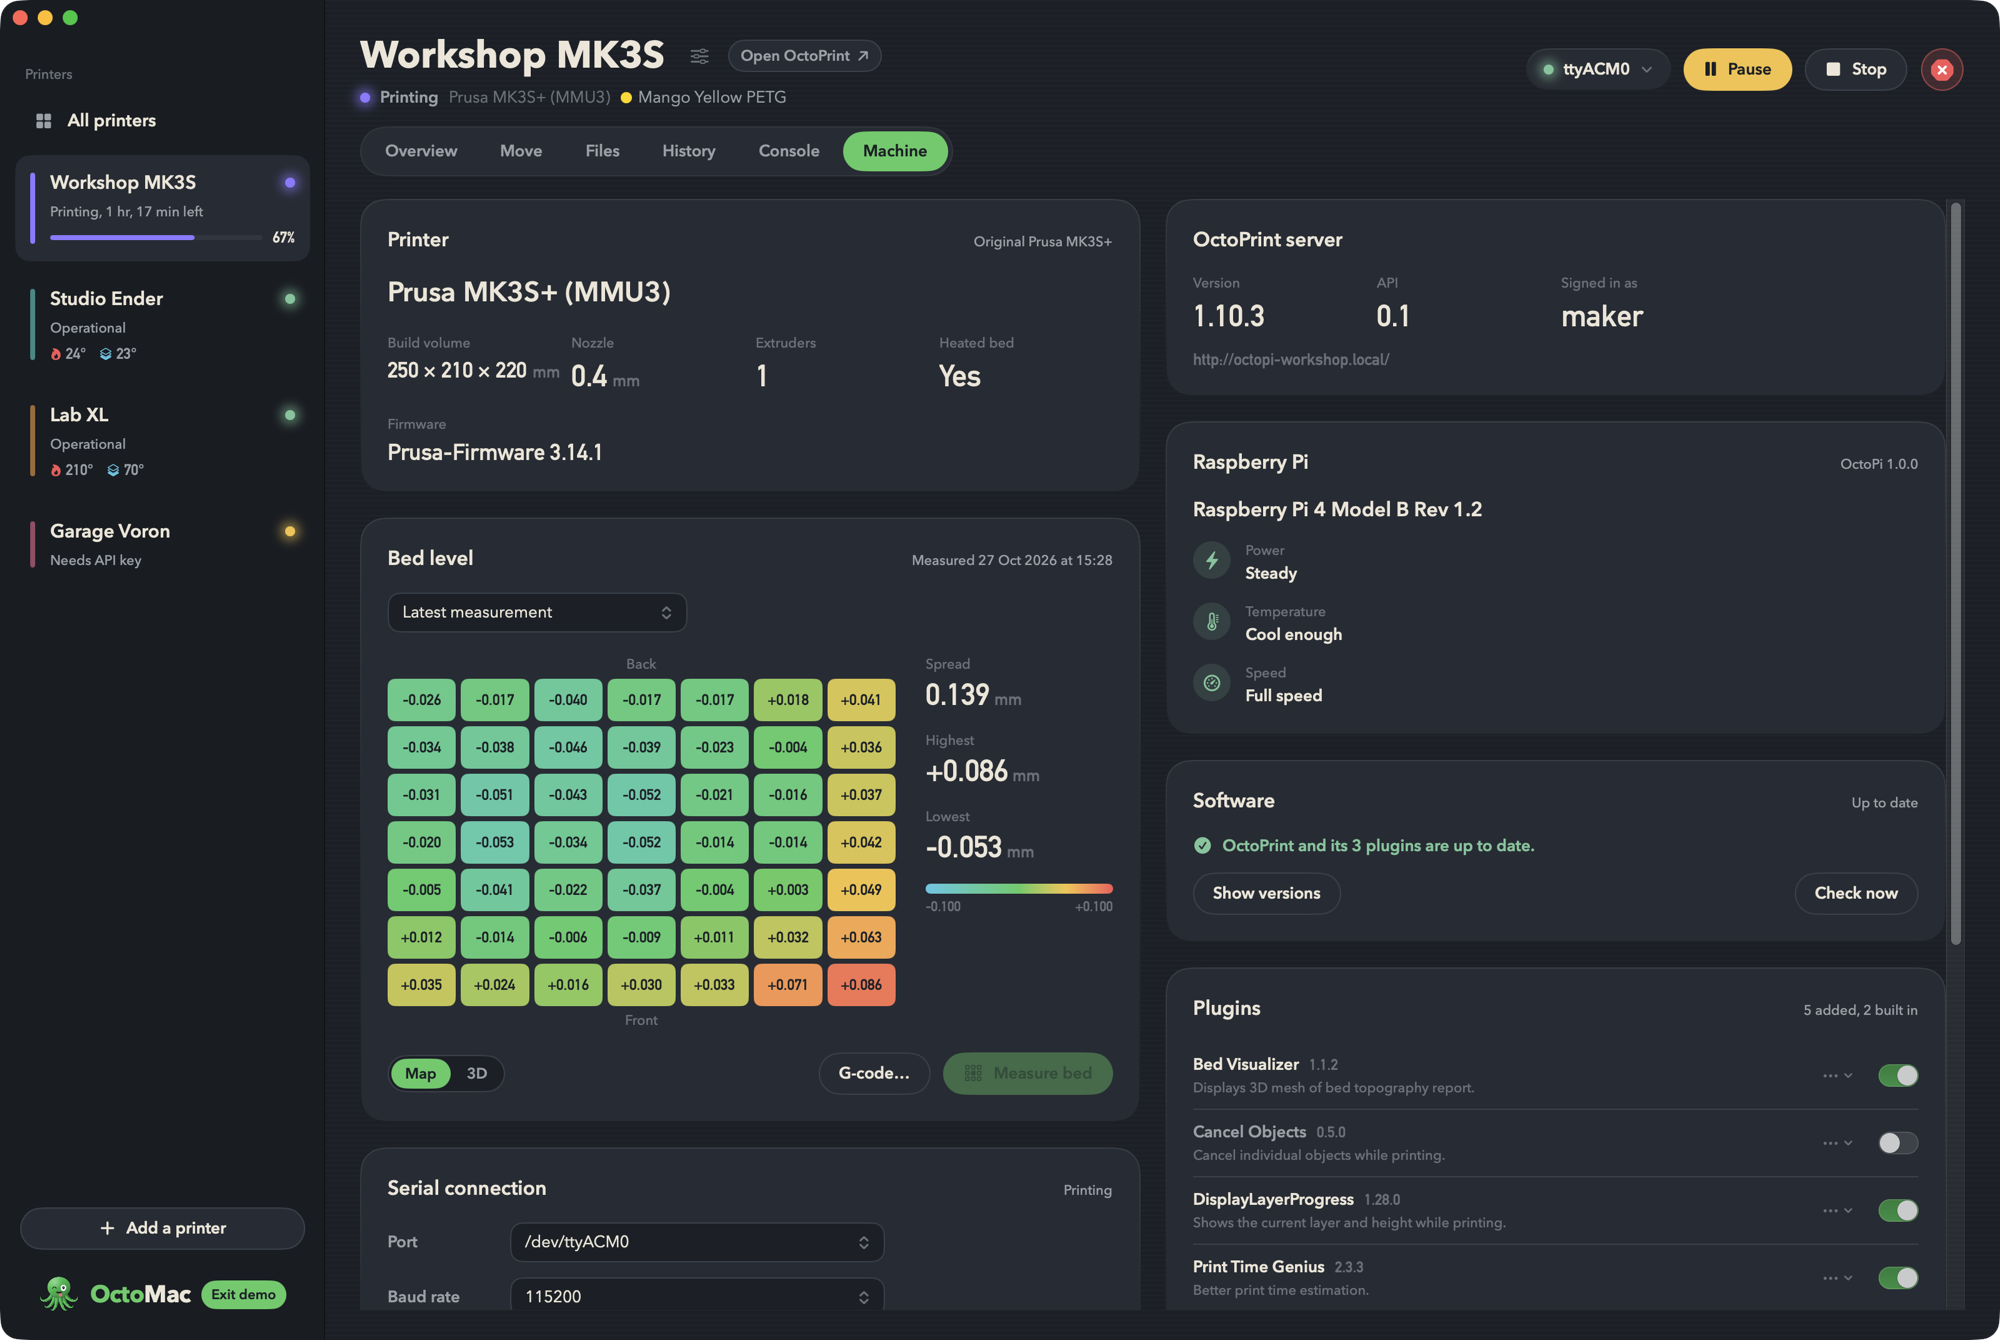
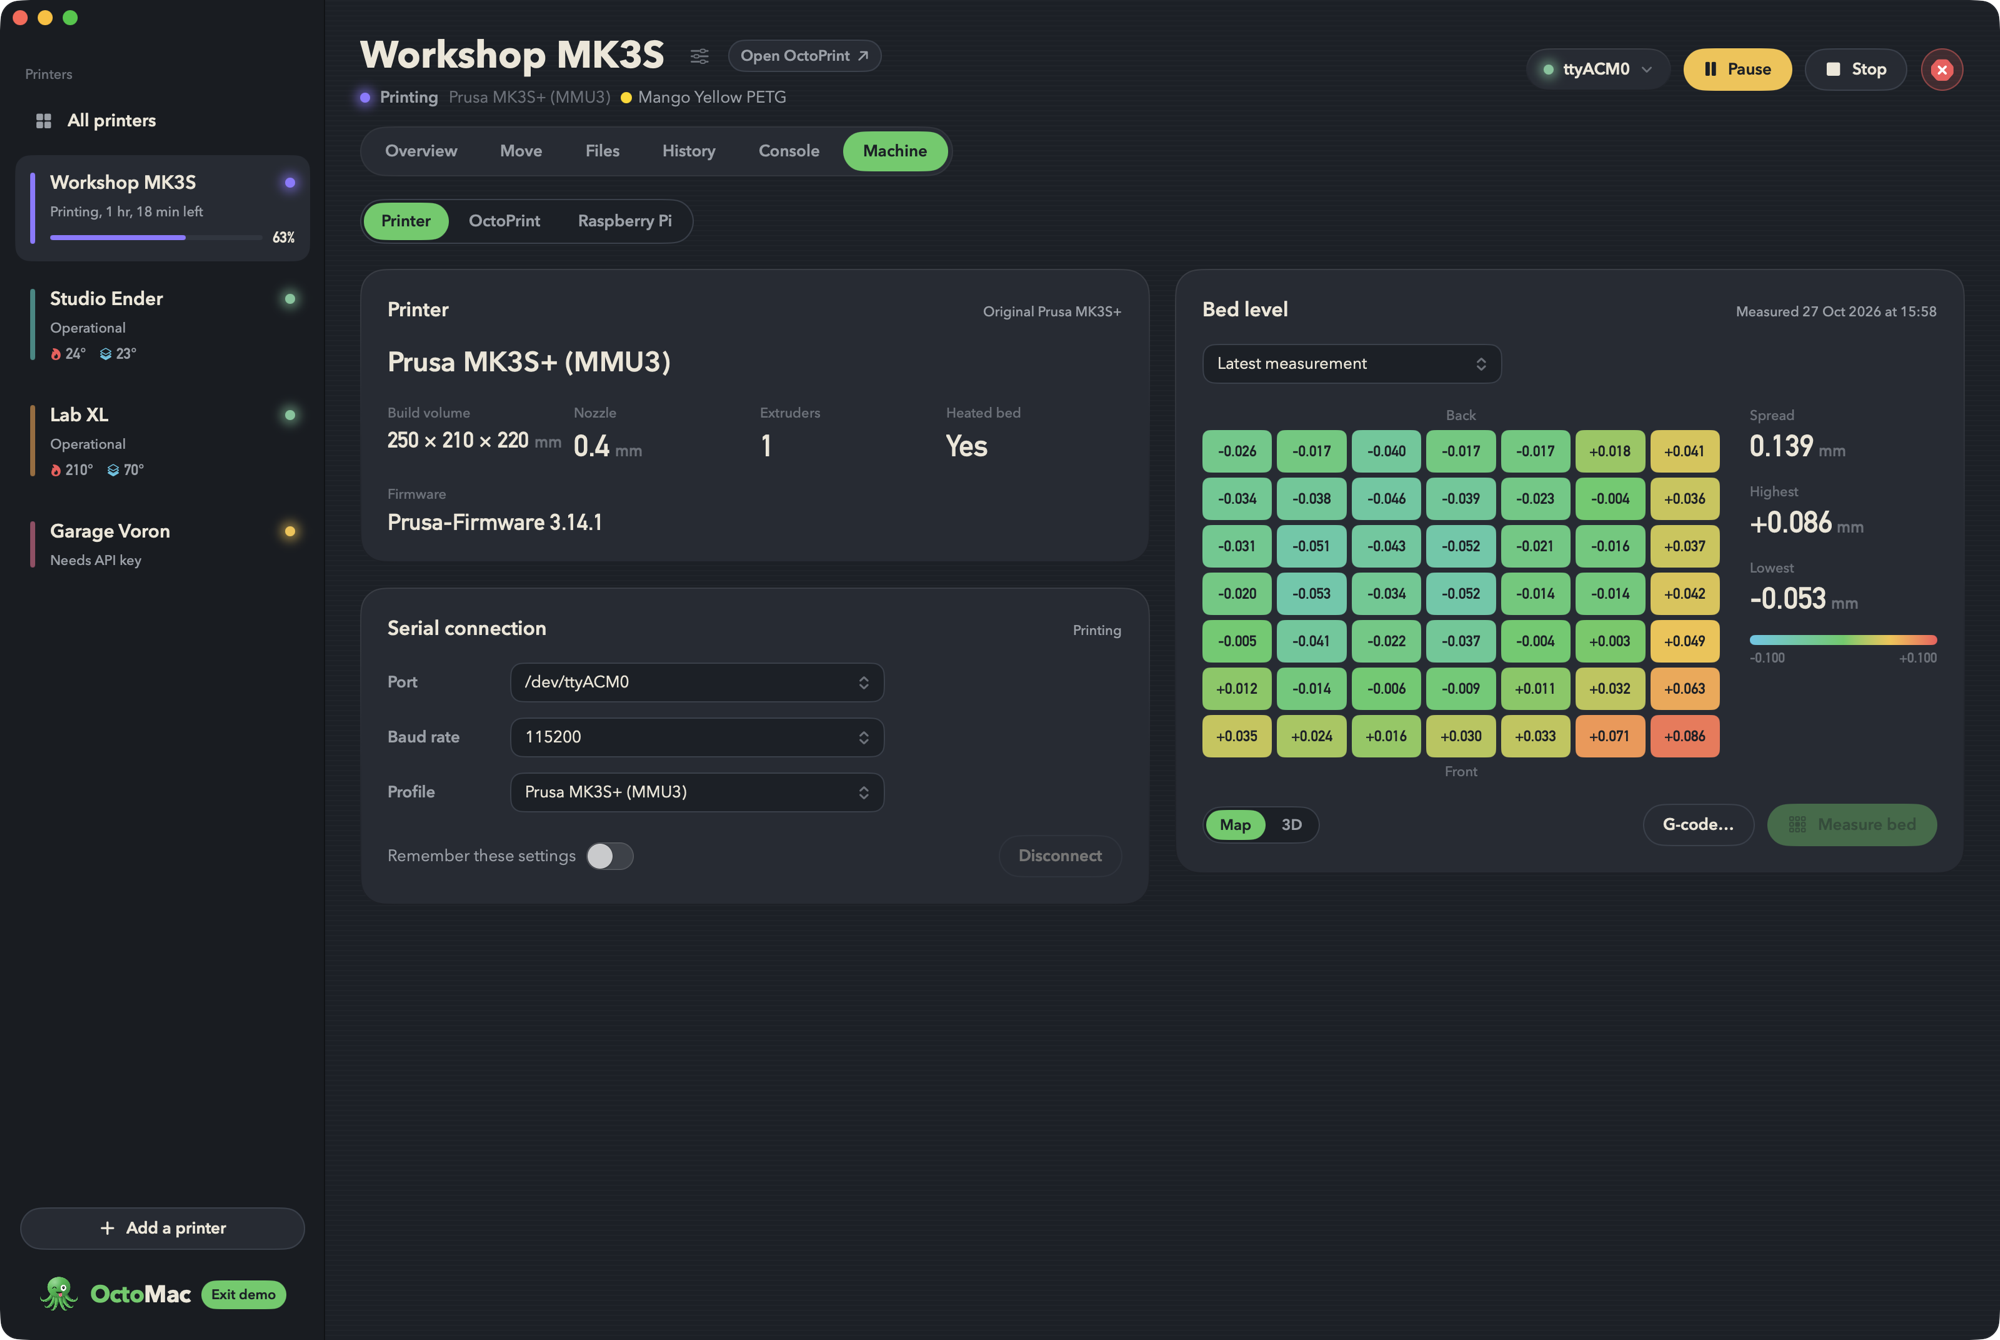
Machine tab in three parts: Printer, OctoPrint and Raspberry Pi

diff --git a/Sources/OctoMac/Views/MachinePage.swift b/Sources/OctoMac/Views/MachinePage.swift
@@ -11,41 +11,70 @@ struct MachinePage: View {
     @State private var profile = ""
     @State private var saveConnection = false
     @State private var pendingCommand: SystemCommand?
+    @AppStorage("machine.section") private var section = Section.printer
+
+    /// The tab is split three ways, so each part is short enough to take in at a glance.
+    enum Section: String, CaseIterable {
+        case printer, octoPrint, pi
+    }
+
+    /// Sections with something that needs you: red for a problem now, amber for something to look at.
+    private var badges: [Section: Color] {
+        var badges: [Section: Color] = [:]
+        if session.link == .online && !session.isPrinterConnected && !session.isPrinterConnecting {
+            badges[.printer] = session.printerFault ? Palette.hot : Palette.warm
+        }
+        if session.pluginSafeMode {
+            badges[.octoPrint] = Palette.hot
+        } else if session.pluginsNeedRestart || session.restartingSince != nil || (session.updates ?? []).contains(where: \.updateAvailable) {
+            badges[.octoPrint] = Palette.warm
+        }
+        if let throttle = session.throttle, throttle.currentIssue || throttle.pastIssue {
+            badges[.pi] = throttle.currentIssue ? Palette.hot : Palette.warm
+        }
+        return badges
+    }
 
     var body: some View {
         GeometryReader { geo in
             ScrollView {
-                VStack(spacing: 20) {
-                    if geo.size.width >= 940 {
-                        HStack(alignment: .top, spacing: 20) {
-                            VStack(spacing: 20) {
-                                printerPanel
-                                if let bed = session.bedLevel { BedMeshPanel(session: session, settings: bed) }
-                                connectionPanel
-                                LogsPanel(session: session)
-                            }
-                            VStack(spacing: 20) {
-                                serverPanel
-                                if let pi = session.pi { PiHealthPanel(session: session, pi: pi) }
-                                if let updates = session.updates { UpdatesPanel(session: session, updates: updates) }
-                                if let plugins = session.plugins { PluginsPanel(session: session, plugins: plugins) }
-                                if let backups = session.backups { BackupsPanel(session: session, state: backups) }
-                                powerPanel
-                            }
+                VStack(alignment: .leading, spacing: 20) {
+                    CapsulePicker(selection: $section, options: [
+                        (.printer, "Printer"), (.octoPrint, "OctoPrint"), (.pi, "Raspberry Pi"),
+                    ], badges: badges)
+                    switch section {
+                    case .printer:
+                        columns(wide: geo.size.width >= 940) {
+                            printerPanel
+                            if session.bedLevel != nil { connectionPanel }
+                        } right: {
+                            // Without Bed Visualizer, the connection fills the other column instead.
+                            if let bed = session.bedLevel { BedMeshPanel(session: session, settings: bed) } else { connectionPanel }
                         }
-                    } else {
-                        printerPanel
-                        if let bed = session.bedLevel { BedMeshPanel(session: session, settings: bed) }
-                        serverPanel
-                        if let pi = session.pi { PiHealthPanel(session: session, pi: pi) }
-                        connectionPanel
-                        powerPanel
-                        if let updates = session.updates { UpdatesPanel(session: session, updates: updates) }
-                        if let plugins = session.plugins { PluginsPanel(session: session, plugins: plugins) }
-                        if let backups = session.backups { BackupsPanel(session: session, state: backups) }
-                        LogsPanel(session: session)
+                    case .octoPrint:
+                        columns(wide: geo.size.width >= 940) {
+                            serverPanel
+                            if let updates = session.updates { UpdatesPanel(session: session, updates: updates) }
+                            if let backups = session.backups { BackupsPanel(session: session, state: backups) }
+                        } right: {
+                            if let plugins = session.plugins { PluginsPanel(session: session, plugins: plugins) }
+                        }
+                    case .pi:
+                        columns(wide: geo.size.width >= 940) {
+                            if let pi = session.pi { PiHealthPanel(session: session, pi: pi) }
+                            powerPanel
+                        } right: {
+                            LogsPanel(session: session)
+                        }
                     }
                 }
+            }
+        }
+        // A problem right now (OctoPrint in safe mode, a struggling Pi, a printer that stopped answering) is shown
+        // first, rather than left behind another section.
+        .onAppear {
+            if badges[section] != Palette.hot, let urgent = Section.allCases.first(where: { badges[$0] == Palette.hot }) {
+                section = urgent
             }
         }
         // Loads again whenever the printer comes online: opened before OctoMac had connected (just after launch,
@@ -74,6 +103,22 @@ struct MachinePage: View {
                 .compactMap { $0 }.joined(separator: " ")
             ConfirmSheet(symbol: symbol(for: command.action), tint: Palette.warm, title: Text(verbatim: "\(name)?"),
                          message: Text(verbatim: message), confirmTitle: Text(verbatim: name), onConfirm: { session.run(command) })
+        }
+    }
+
+    /// Two columns on a wide window, one after the other on a narrow one.
+    @ViewBuilder
+    private func columns<Left: View, Right: View>(wide: Bool, @ViewBuilder left: () -> Left, @ViewBuilder right: () -> Right) -> some View {
+        if wide {
+            HStack(alignment: .top, spacing: 20) {
+                VStack(spacing: 20) { left() }
+                VStack(spacing: 20) { right() }
+            }
+        } else {
+            VStack(spacing: 20) {
+                left()
+                right()
+            }
         }
     }
 

diff --git a/website/index.html b/website/index.html
@@ -392,10 +392,10 @@
     <article class="panel feature wide">
       <div>
         <div class="panel-head"><h3>The Machine tab</h3></div>
-        <p>Your printer's firmware, the Raspberry Pi's power and temperature health, and a 3D bed level map you can measure from OctoMac. Compare today's bed with an earlier measurement to see exactly what's moved.</p>
+        <p>Three tidy parts: the printer, OctoPrint and the Raspberry Pi, each with a dot when something needs you. Your printer's firmware, the Raspberry Pi's power and temperature health, and a 3D bed level map you can measure from OctoMac. Compare today's bed with an earlier measurement to see exactly what's moved.</p>
         <p>Install OctoPrint and plugin updates with one click, add plugins from OctoPrint's official list, switch them on or off, back up OctoPrint to your Mac, and read or save OctoPrint's logs. If a printer won't connect, OctoMac tells you why in plain words.</p>
       </div>
-      <div class="shot"><img src="screenshots/machine.png" width="2000" height="1340" loading="lazy" alt="The Machine tab with the bed level map, Raspberry Pi health, software updates and plugins"></div>
+      <div class="shot"><img src="screenshots/machine.png" width="2000" height="1340" loading="lazy" alt="The Machine tab's Printer section, with the printer, its serial connection and the bed level map"></div>
     </article>
     <article class="panel feature wide">
       <div>
@@ -411,7 +411,7 @@
         <p>Back up OctoPrint before an update or a new plugin, with or without your G-code files and timelapses. Save a copy to your Mac, so a failed SD card is a quick fix rather than a long evening.</p>
         <p>Old backups can be deleted from the same list. Restoring is done on OctoPrint's own page, which asks for your password first.</p>
       </div>
-      <div class="shot"><img src="screenshots/backups.png" width="2000" height="1340" loading="lazy" alt="The Backups panel on the Machine tab, listing backups on the Raspberry Pi with buttons to save them"></div>
+      <div class="shot"><img src="screenshots/backups.png" width="2000" height="1340" loading="lazy" alt="The Machine tab's OctoPrint section, with software updates, plugins and backups"></div>
     </article>
   </div>
 

diff --git a/Sources/OctoMac/Design/Controls.swift b/Sources/OctoMac/Design/Controls.swift
@@ -5,6 +5,8 @@ struct CapsulePicker<Value: Hashable>: View {
     @Binding var selection: Value
     let options: [(value: Value, title: LocalizedStringKey)]
     var compact = false
+    /// A coloured dot after an option that needs attention.
+    var badges: [Value: Color] = [:]
     @Namespace private var carriage
 
     var body: some View {
@@ -15,11 +17,17 @@ struct CapsulePicker<Value: Hashable>: View {
                 Button {
                     withAnimation(.snappy(duration: 0.22)) { selection = option.value }
                 } label: {
-                    Text(option.title)
-                        .font(Typeface.text(compact ? 12 : 13, .demibold))
-                        .lineLimit(1)
-                        .fixedSize()
-                        .foregroundStyle(selected ? Palette.graphite : Palette.dust)
+                    HStack(spacing: 6) {
+                        Text(option.title)
+                            .font(Typeface.text(compact ? 12 : 13, .demibold))
+                            .lineLimit(1)
+                            .fixedSize()
+                        if let badge = badges[option.value] {
+                            Circle().fill(badge).frame(width: 7, height: 7)
+                                .overlay(Circle().strokeBorder(Palette.graphite.opacity(selected ? 0.5 : 0), lineWidth: 1))
+                        }
+                    }
+                    .foregroundStyle(selected ? Palette.graphite : Palette.dust)
                         .padding(.horizontal, compact ? 11 : 14)
                         .padding(.vertical, compact ? 4 : 6)
                         .background {

diff --git a/README.md b/README.md
@@ -28,7 +28,7 @@ OctoMac puts all of your [OctoPrint](https://octoprint.org) printers in one plac
 - **Layer alerts.** Pause at a layer to drop in magnets, nuts or a new colour, or just get a notification when the print reaches it. Once the first layer is down, OctoMac sends a picture of it with Pause and Stop Print buttons, so a bad start never runs for hours.
 - **Tweak a print as it runs.** Nudge the print speed and flow right from the Overview while you watch.
 - **Notifications.** Get a Mac notification when a print finishes or fails, when the printer needs you (a filament change, a paused print, an MMU filament choice), if it stops answering, or if the Raspberry Pi is short of power. Finished, failed and paused prints, the first layer and your layer alerts come with a picture from the camera. Choose which ones you want in Settings.
-- **Know your machine.** The Machine tab shows the printer's firmware, the Raspberry Pi's power and temperature health, the bed level map with its history (compare today's bed with an earlier measurement to see what's moved), OctoPrint and plugin updates you can install with one click, your plugins (add new ones from OctoPrint's official plugin list, switch them on or off, or uninstall them), backups of OctoPrint you can save to your Mac, and OctoPrint's logs, which you can read or save. If the printer won't connect, OctoMac tells you why in plain words.
+- **Know your machine.** The Machine tab, in three parts (Printer, OctoPrint and Raspberry Pi, each marked with a dot when something needs you), shows the printer's firmware, the Raspberry Pi's power and temperature health, the bed level map with its history (compare today's bed with an earlier measurement to see what's moved), OctoPrint and plugin updates you can install with one click, your plugins (add new ones from OctoPrint's official plugin list, switch them on or off, or uninstall them), backups of OctoPrint you can save to your Mac, and OctoPrint's logs, which you can read or save. If the printer won't connect, OctoMac tells you why in plain words.
 - **Full control.** Heat up with your saved presets, move the print head, extrude filament, adjust fan and speed, send G-code from the console, and manage the connection and the Raspberry Pi.
 - **A friendlier console.** Hide the chatter you don't need (temperatures, SD status, positions, wait and busy replies, MMU chatter) using OctoPrint's own filters, and highlight the lines you care about, including the printer's replies to your own commands. The console holds still while you scroll up to read, and a G-code cheat sheet slides out beside it with plain explanations of common commands.
 - **Safe by design.** Stopping a print asks you to confirm and shows what you'd lose, and there's a separate emergency stop for when something goes wrong.
@@ -51,11 +51,11 @@ OctoMac puts all of your [OctoPrint](https://octoprint.org) printers in one plac
 
 ![The console with the G-code cheat sheet open](docs/screenshots/console.png)
 
-![The Machine tab, with the bed level map and Raspberry Pi health](docs/screenshots/machine.png)
+![The Machine tab's Printer section, with the bed level map and serial connection](docs/screenshots/machine.png)
 
 ![Adding plugins from OctoPrint's official list](docs/screenshots/add-plugins.png)
 
-![Backups of OctoPrint on the Machine tab](docs/screenshots/backups.png)
+![The Machine tab's OctoPrint section: updates, plugins and backups](docs/screenshots/backups.png)
 
 ## Getting started
 
